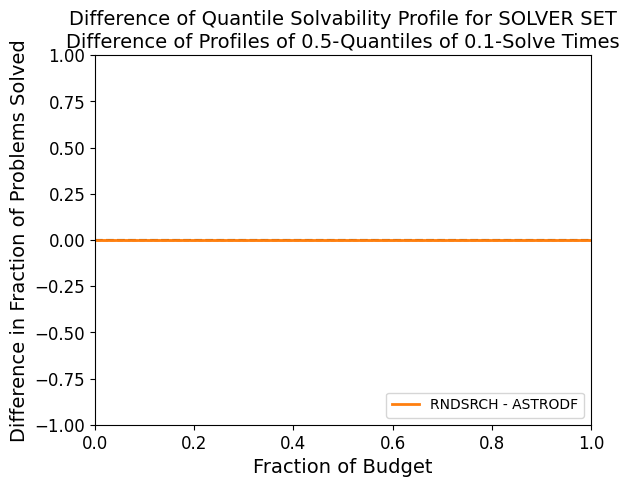
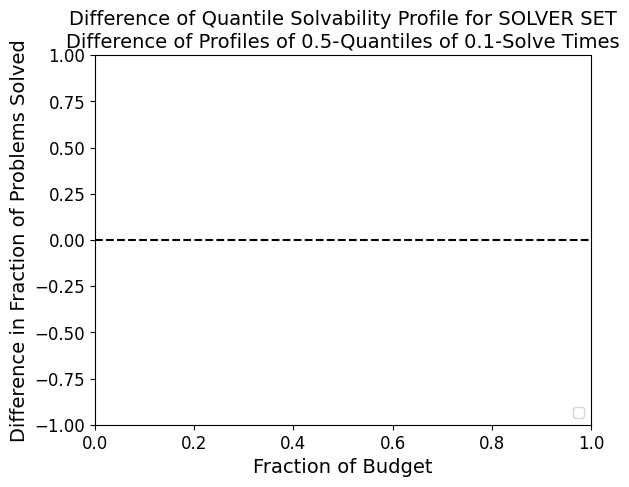
New Changes Related to Plot Settings

Changed region(s): [[0.151, 0.4928, 0.9364, 0.5236], [0.6041, 0.8008, 0.9364, 0.8624]]

diff --git a/simopt/GUI.py b/simopt/GUI.py
@@ -2476,9 +2476,9 @@ class Plot_Window():
                     except ValueError:
                         param_value_list.append(t.get())
 
-            ci = param_value_list[0]
-            plot_together = param_value_list[1]
-            hw = param_value_list[2]
+            #ci = param_value_list[0]
+            #plot_together = param_value_list[1]
+            #hw = param_value_list[2]
             
             #if (self.experiment_list != None) and (self.metaList == None):
                 #exp = self.plot_exp_list[len(self.plot_exp_list)-1]
@@ -2508,39 +2508,39 @@ class Plot_Window():
 
 
             if self.plot_type_list[i] == "Mean Progress Curve":
-                path_name = wrapper_base.plot_progress_curves(exp,plot_type="mean", normalize=param_value_list[3], all_in_one=plot_together, plot_CIs=ci, print_max_hw=hw)
-                print("param_list Mean Progress Curve", param_list)
+                path_name = wrapper_base.plot_progress_curves(exp,plot_type="mean", normalize=param_value_list[3], all_in_one=param_value_list[1], plot_CIs=param_value_list[0], print_max_hw=param_value_list[2])
                 print("param_value_list Mean progress Curve ", param_value_list)
-                param_list = {"plot CIs":ci, "print max hw":hw, "normalize":param_value_list[3]}
+                param_list = {"plot CIs":param_value_list[0], "print max hw":param_value_list[2], "normalize":param_value_list[3]}
             elif self.plot_type_list[i] == "Quantile Progress Curve":
-                path_name = wrapper_base.plot_progress_curves(exp,plot_type = "quantile",  beta=param_value_list[3], normalize=param_value_list[4], all_in_one=plot_together, plot_CIs=ci, print_max_hw=hw)
-                param_list = {"plot CIs":ci, "print max hw":hw, "normalize":param_value_list[4], "beta":param_value_list[3]}
+                path_name = wrapper_base.plot_progress_curves(exp,plot_type = "quantile",  beta=param_value_list[3], normalize=param_value_list[4], all_in_one=param_value_list[1],plot_CIs=param_value_list[0], print_max_hw=param_value_list[2])
+                param_list = {"plot CIs":param_value_list[0], "print max hw":param_value_list[2], "normalize":param_value_list[4], "beta":param_value_list[3]}
             elif self.plot_type_list[i] == "Solve Time CDF":
-                path_name = wrapper_base.plot_solvability_cdfs(exp, solve_tol = param_value_list[3], plot_CIs=ci, print_max_hw=hw)
-                param_list = {"plot CIs":ci, "print max hw":hw, "solve tol":param_value_list[3]}
+                path_name = wrapper_base.plot_solvability_cdfs(exp, solve_tol = param_value_list[2], plot_CIs=param_value_list[0], print_max_hw=param_value_list[1])
+                param_list = {"plot CIs":param_value_list[0], "print max hw":param_value_list[1], "solve tol":param_value_list[2]}
             elif self.plot_type_list[i] == "Scatter Plot":
-                path_name = wrapper_base.plot_area_scatterplots(exp2, plot_CIs=ci, print_max_hw=hw)
+                path_name = wrapper_base.plot_area_scatterplots(exp2, plot_CIs=param_value_list[0], print_max_hw=param_value_list[1])
                 param_list = {}
             elif self.plot_type_list[i] == "CDF Solvability":
-                path_name = wrapper_base.plot_solvability_profiles(exp2, plot_type = "cdf_solvability", plot_CIs=ci, print_max_hw=hw, solve_tol=param_value_list[3],ref_solver=None)
-                param_list = {"plot CIs":ci, "print max hw":hw, "solve tol":param_value_list[3]}
+                path_name = wrapper_base.plot_solvability_profiles(exp2, plot_type = "cdf_solvability", plot_CIs=param_value_list[0], print_max_hw=param_value_list[1], solve_tol=param_value_list[2],ref_solver=None)
+                param_list = {"plot CIs":param_value_list[0], "print max hw":param_value_list[1], "solve tol":param_value_list[2]}
             elif self.plot_type_list[i] == "Quantile Solvability":
-                param_list = {"plot CIs":ci, "print max hw":hw, "solve tol": param_value_list[3], "beta": param_value_list[4]}
-                path_name = wrapper_base.plot_solvability_profiles(exp2, plot_type = "quantile_solvability", plot_CIs=ci, print_max_hw=hw, solve_tol=param_value_list[3],beta=param_value_list[4],ref_solver=None)
+                print("Quantile Solvability",param_value_list )
+                param_list = {"plot CIs":param_value_list[0], "print max hw":param_value_list[1], "solve tol": param_value_list[2], "beta": param_value_list[3]}
+                path_name = wrapper_base.plot_solvability_profiles(exp2, plot_type = "quantile_solvability", plot_CIs=param_value_list[0], print_max_hw=param_value_list[1], solve_tol=param_value_list[2],beta=param_value_list[3],ref_solver=None)
             elif self.plot_type_list[i] == "CDF Difference Plot":
                 print("param_value_list CDF Difference Plot", param_value_list)
-                param_list = {"plot CIs":ci, "print max hw":hw, "solve tol":param_value_list[3],"ref solver":param_value_list[4]}
-                path_name = wrapper_base.plot_solvability_profiles(exp2, plot_type = "diff_cdf_solvability", plot_CIs=ci, print_max_hw=hw,solve_tol=param_value_list[3], ref_solver=param_value_list[4])
+                param_list = {"plot CIs":param_value_list[0], "print max hw":param_value_list[1], "solve tol":param_value_list[2],"ref solver":param_value_list[3]}
+                path_name = wrapper_base.plot_solvability_profiles(exp2, plot_type = "diff_cdf_solvability", plot_CIs=param_value_list[0], print_max_hw=param_value_list[1],solve_tol=param_value_list[2], ref_solver=param_value_list[3])
             elif self.plot_type_list[i] == "Quantile Difference Plot":
-                param_list = {"plot CIs":ci, "print max hw":hw, "solve tol":param_value_list[3],"ref solver":param_value_list[5],"beta":param_value_list[4]}
-                path_name = wrapper_base.plot_solvability_profiles(exp2, plot_type = "diff_quantile_solvability", plot_CIs=ci, print_max_hw=hw, solve_tol=param_value_list[3], beta=param_value_list[4],ref_solver=param_value_list[5])
+                param_list = {"plot CIs":param_value_list[0], "print max hw":param_value_list[1], "solve tol":param_value_list[2],"ref solver":param_value_list[4],"beta":param_value_list[3]}
+                path_name = wrapper_base.plot_solvability_profiles(exp2, plot_type = "diff_quantile_solvability", plot_CIs=param_value_list[0], print_max_hw=param_value_list[1], solve_tol=param_value_list[2], beta=param_value_list[3],ref_solver=param_value_list[4])
             elif self.plot_type_list[i] == "Box Plot":
-                param_list = {"plot type": param_value_list[3], "normalize":param_value_list[4]}
-                path_name = wrapper_base.plot_terminal_progress(exp, plot_type = param_value_list[3], normalize = param_value_list[4], all_in_one = plot_together)
-
+                print("Box Plot", param_value_list)
+                param_list = {"plot type": param_value_list[1], "normalize":param_value_list[2]}
+                path_name = wrapper_base.plot_terminal_progress(exp, plot_type = param_value_list[1], normalize = param_value_list[2], all_in_one =param_value_list[0])
             elif self.plot_type_list[i] == "Terminal Scatter":
                 param_list = {}
-                path_name = wrapper_base.plot_terminal_scatterplots(exp2, plot_type="terminal_scatter", all_in_one = plot_together)
+                path_name = wrapper_base.plot_terminal_scatterplots(exp2, plot_type="terminal_scatter", all_in_one = param_value_list[0])
             else:
                 print(f"{self.plot_type_list[i]} is the plot_type_list at index {i}")
 
@@ -2690,39 +2690,43 @@ class Plot_Window():
 
             
             # Plot Settings
+            i = 0 
             if plot_choice == "Mean Progress Curve" or plot_choice == "Quantile Progress Curve" or plot_choice ==  "Solve Time CDF" or plot_choice =="Scatter Plot" or plot_choice == "CDF Solvability" or plot_choice == "Quantile Solvability" or plot_choice == "CDF Difference Plot" or plot_choice == "Quantile Difference Plot":
                 # Confidence Intervals
-                entry1 = tk.Checkbutton(self.settings_canvas, variable=self.params[0], onvalue="True", offvalue="False")
+                entry1 = tk.Checkbutton(self.settings_canvas, variable=self.params[i], onvalue="True", offvalue="False")
                 entry1.select()
                 # entry1 = ttk.OptionMenu(self.settings_canvas, self.params[0], "True", *tf_list)
                 label1 = tk.Label(master=self.settings_canvas, text="Confidence Intervals", font="Calibri 14")
                 label1.grid(row=0, column=0, padx=10, pady=3)
                 entry1.grid(row=0, column=1, padx=10, pady=3)
+                i += 1
 
-            if plot_choice == "Mean Progress Curve" or plot_choice == "Quantile Progress Curve" or plot_choice == "Box" or plot_choice == "Violin" or plot_choice == "Terminal Scatter":
+            if plot_choice == "Mean Progress Curve" or plot_choice == "Quantile Progress Curve" or plot_choice == "Box Plot" or plot_choice == "Terminal Scatter":
                 # Plot Together Checkbox
-                entry = tk.Checkbutton(self.settings_canvas, variable=self.params[1], onvalue="True", offvalue="False")
+                entry = tk.Checkbutton(self.settings_canvas, variable=self.params[i], onvalue="True", offvalue="False")
                 entry.select()
                 # Creates the Check Mark that checks whether the plots will be plot together
                 label = tk.Label(master=self.settings_canvas, text="Plot Together", font="Calibri 14")
                 label.grid(row=1, column=0, padx=10, pady=3)
                 entry.grid(row=1, column=1, padx=10, pady=3) 
+                i += 1
             
             if plot_choice == "Mean Progress Curve" or plot_choice == "Quantile Progress Curve" or plot_choice ==  "Solve Time CDF" or plot_choice =="Scatter Plot" or plot_choice == "CDF Solvability" or plot_choice == "Quantile Solvability" or plot_choice == "CDF Difference Plot" or plot_choice == "Quantile Difference Plot":
                 # Print Max HW
-                entry2 = tk.Checkbutton(self.settings_canvas, variable=self.params[2], onvalue="True", offvalue="False")
+                entry2 = tk.Checkbutton(self.settings_canvas, variable=self.params[i], onvalue="True", offvalue="False")
                 entry2.select()
                 label2 = tk.Label(master=self.settings_canvas, text="Print Max HW", font="Calibri 14")
                 label2.grid(row=2, column=0, padx=10, pady=3)
                 entry2.grid(row=2, column=1, padx=10, pady=3)
+                i += 1
             #for item in self.params:
              #   print(f"Item's value: {item.get()} at index {self.params.index(item)} in self.params list")
             
-            i = 1
+            
             for param, param_val in param_list.items():
 
                 if param == 'normalize':
-                    entry = ttk.OptionMenu(self.CI_canvas, self.params[i+2], "True", *tf_list)
+                    entry = ttk.OptionMenu(self.CI_canvas, self.params[i], "True", *tf_list)
                     label = tk.Label(master=self.CI_canvas, text="Normalize By Relative Optimality Gap", font="Calibri 14", wraplength="200")
                     label.grid(row=i, column=0, padx=10, pady=3)
                     entry.grid(row=i, column=1, padx=10, pady=3)
@@ -2730,13 +2734,13 @@ class Plot_Window():
                     label = tk.Label(master=self.CI_canvas, text="Select Solver", font="Calibri 14")
                     if len(self.solvers_names) != 0:
                         label = tk.Label(master=self.CI_canvas, text="Benchmark Solver", font="Calibri 14")
-                        entry = ttk.OptionMenu(self.CI_canvas, self.params[i+2], self.solvers_names[0], *self.solvers_names)
+                        entry = ttk.OptionMenu(self.CI_canvas, self.params[i], self.solvers_names[0], *self.solvers_names)
                         entry.grid(row=i, column=1, padx=10, pady=3)
                     label.grid(row=i, column=0, padx=10, pady=3)
                 elif param == 'solve_tol':
                     label = tk.Label(master=self.CI_canvas, text="Optimality Gap Threshold", font="Calibri 14", wraplength="100")
                     label.grid(row=i, column=0, padx=10, pady=3)
-                    entry = ttk.Entry(master=self.CI_canvas, textvariable = self.params[i+2], justify = tk.LEFT)
+                    entry = ttk.Entry(master=self.CI_canvas, textvariable = self.params[i], justify = tk.LEFT)
                     if param_val is not None:
                         entry.delete(0, 'end')
                         entry.insert(index=tk.END, string=param_val)
@@ -2744,20 +2748,20 @@ class Plot_Window():
                 elif param == 'beta':
                     label = tk.Label(master=self.CI_canvas, text="Quantile Probability", font="Calibri 14", wraplength="100")
                     label.grid(row=i, column=0, padx=10, pady=3)
-                    entry = ttk.Entry(master=self.CI_canvas, textvariable = self.params[i+2], justify = tk.LEFT)
+                    entry = ttk.Entry(master=self.CI_canvas, textvariable = self.params[i], justify = tk.LEFT)
                     if param_val is not None:
                         entry.delete(0, 'end')
                         entry.insert(index=tk.END, string=param_val)
                     entry.grid(row=i, column=1, padx=10, pady=3)
                 elif param == 'plot type':
                     label = tk.Label(master=self.CI_canvas, text="Type of Box Plot", font="Calibri 14", wraplength="200")
-                    entry = ttk.OptionMenu(self.CI_canvas, self.params[i+2], "violin",*bp_list)
+                    entry = ttk.OptionMenu(self.CI_canvas, self.params[i], "violin",*bp_list)
                     label.grid(row=i, column=0, padx=10, pady=3)
                     entry.grid(row=i, column=1, padx=10, pady=3)
                 else:
                     label = tk.Label(master=self.CI_canvas, text=param, font="Calibri 14")
                     label.grid(row=i, column=0, padx=10, pady=3)
-                    entry = ttk.Entry(master=self.CI_canvas, textvariable = self.params[i+2], justify = tk.LEFT)
+                    entry = ttk.Entry(master=self.CI_canvas, textvariable = self.params[i], justify = tk.LEFT)
                     if param_val is not None:
                         entry.delete(0, 'end')
                         entry.insert(index=tk.END, string=param_val)
